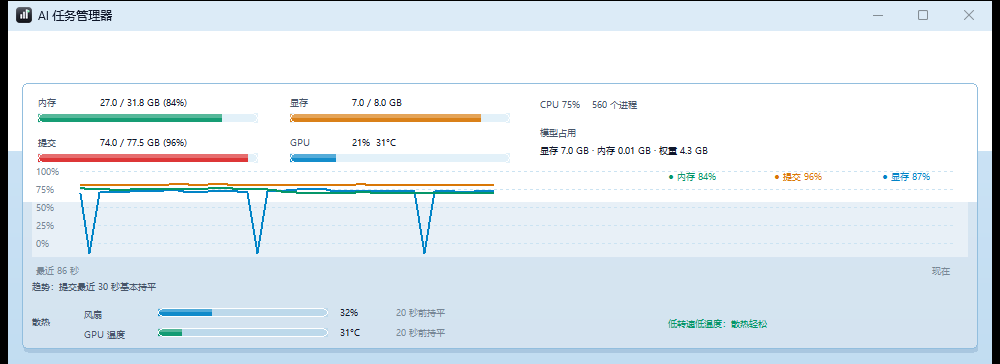
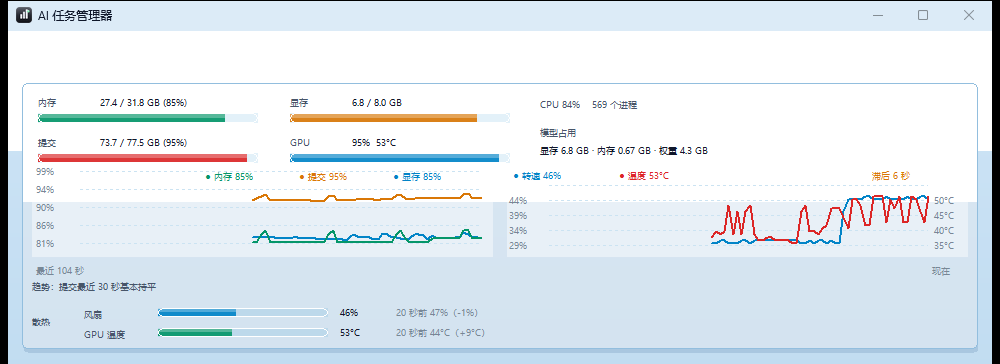
feat: 散热双轴曲线，标注风扇转速相对温度的滞后
- 头部拆成两张图：左=内存/提交/显存，右=转速(%)与温度(°C)双轴
- 用 0~30 秒位移的相关系数估计滞后，直接标在图上
- 曲线改为右对齐，最新点落在「现在」
- 修复 RunHidden 共用临时文件导致 GPU 数据间歇为空（显示「无 N 卡」）

diff --git a/src/main.cpp b/src/main.cpp
@@ -170,7 +170,11 @@ static void RunHidden(const std::wstring& cmd, std::wstring& out) {
     SECURITY_ATTRIBUTES sa{ sizeof(sa), nullptr, TRUE };
     wchar_t tmp[MAX_PATH];
     GetTempPathW(MAX_PATH, tmp);
-    std::wstring path = std::wstring(tmp) + L"aitm_gpu.txt";
+    // 每次调用独立文件：GPU 查询和温度脚本是两个线程，共用一个文件会互相删掉输出
+    static std::atomic<unsigned> seq{ 0 };
+    std::wstring path = std::wstring(tmp) + L"aitm_" +
+                        std::to_wstring(GetCurrentProcessId()) + L"_" +
+                        std::to_wstring(seq.fetch_add(1)) + L".txt";
     DeleteFileW(path.c_str());
 
     HANDLE h = CreateFileW(path.c_str(), GENERIC_WRITE, FILE_SHARE_READ, &sa,
@@ -892,7 +896,7 @@ static void PaintChart(HDC dc, int x, int y, int w, int h) {
             int idx = (g_histHead - g_histCount + i + HIST_MAX * 2) % HIST_MAX;
             const Sample& sm = g_hist[idx];
             double v = which == 0 ? sm.ram : (which == 1 ? sm.com : sm.vram);
-            int px = plotX + (int)(i * step);
+            int px = plotX + plotW - (int)((g_histCount - 1 - i) * step);
             int py = toY(v);
             if (first) { MoveToEx(dc, px, py, nullptr); first = false; }
             else LineTo(dc, px, py);
@@ -907,10 +911,147 @@ static void PaintChart(HDC dc, int x, int y, int w, int h) {
     drawLine(C_AMBER, 1, comNow);
     drawLine(C_GREEN, 0, ramNow);
 
-    int lx = x + w - 300;
+    int lx = x + w - 288;
     TextAt(dc, lx, y + 2, C_GREEN, Fmt(L"● 内存 %.0f%%", ramNow));
-    TextAt(dc, lx + 106, y + 2, C_AMBER, Fmt(L"● 提交 %.0f%%", comNow));
-    TextAt(dc, lx + 214, y + 2, C_BLUE, Fmt(L"● 显存 %.0f%%", gpuNow));
+    TextAt(dc, lx + 94, y + 2, C_AMBER, Fmt(L"● 提交 %.0f%%", comNow));
+    TextAt(dc, lx + 188, y + 2, C_BLUE, Fmt(L"● 显存 %.0f%%", gpuNow));
+}
+
+// 风扇转速相对温度的滞后（秒）：在 0~30 秒里找相关系数最高的位移
+// -1 样本不够；-2 两者无关（温度或转速基本不动）
+static double FanLagSeconds() {
+    if (g_histCount < 24 || g_temps.gpu <= 0) return -1;
+    const int n = std::min(g_histCount, 60);
+    auto fAt = [](int back) { return g_hist[(g_histHead - 1 - back + HIST_MAX * 2) % HIST_MAX].fan; };
+    auto tAt = [](int back) { return g_hist[(g_histHead - 1 - back + HIST_MAX * 2) % HIST_MAX].gpuT; };
+
+    auto corr = [&](int lag, double& r) {
+        int m = n - lag;
+        if (m < 15) return false;
+        double sa = 0, sb = 0, saa = 0, sbb = 0, sab = 0;
+        for (int i = 0; i < m; ++i) {
+            double a = tAt(i + lag), b = fAt(i);       // 更早的温度 对 更晚的转速
+            sa += a; sb += b; saa += a * a; sbb += b * b; sab += a * b;
+        }
+        double va = saa - sa * sa / m, vb = sbb - sb * sb / m;
+        if (va <= 1e-6 || vb <= 1e-6) return false;
+        r = (sab - sa * sb / m) / std::sqrt(va * vb);
+        return true;
+    };
+
+    double bestR = -2;
+    int bestLag = 0;
+    for (int lag = 0; lag <= 15; ++lag) {
+        double r;
+        if (corr(lag, r) && r > bestR) { bestR = r; bestLag = lag; }
+    }
+    if (bestR < 0.35) return -2;
+    return bestLag * 2.0;
+}
+
+// 散热曲线：左轴=风扇转速(%)，右轴=GPU 温度(°C)，同一时间轴才看得出谁先动
+static void PaintCoolChart(HDC dc, int x, int y, int w, int h) {
+    if (g_theme.glass) FillAlpha(dc, x, y, w, h, RGB(255, 255, 255), 110);
+    SetBkMode(dc, TRANSPARENT);
+
+    const int leftW = 42, rightW = 40;
+    const int plotX = x + leftW, plotW = w - leftW - rightW;
+    const int plotY = y + 18, plotH = h - 18 - 6;
+
+    if (g_histCount < 2) {
+        TextAt(dc, x + 70, y + h / 2 - 8, C_DIM, L"采样中…");
+        return;
+    }
+    if (g_temps.gpu <= 0) {
+        TextAt(dc, x + 70, y + h / 2 - 8, C_DIM, L"没有 GPU 温度，画不了散热曲线");
+        return;
+    }
+
+    double fmin = 100, fmax = 0, tmin = 200, tmax = 0;
+    for (int i = 0; i < g_histCount; ++i) {
+        int idx = (g_histHead - g_histCount + i + HIST_MAX * 2) % HIST_MAX;
+        const Sample& sm = g_hist[idx];
+        if (sm.fan <= 0 && sm.gpuT <= 0) continue;
+        fmin = std::min(fmin, sm.fan); fmax = std::max(fmax, sm.fan);
+        tmin = std::min(tmin, sm.gpuT); tmax = std::max(tmax, sm.gpuT);
+    }
+    if (fmax <= 0 && tmax <= 0) {
+        TextAt(dc, x + 70, y + h / 2 - 8, C_DIM, L"还没有读到转速/温度");
+        return;
+    }
+
+    auto pad = [](double& lo, double& hi, double minSpan, double absLo, double absHi) {
+        if (hi < lo) std::swap(hi, lo);
+        if (hi - lo < minSpan) {
+            double mid = (hi + lo) / 2;
+            lo = mid - minSpan / 2; hi = mid + minSpan / 2;
+        }
+        double span = hi - lo;
+        lo = std::max(absLo, lo - span * 0.15);
+        hi = std::min(absHi, hi + span * 0.15);
+        if (hi - lo < 1) hi = lo + 1;
+    };
+    pad(fmin, fmax, 10, 0, 100);
+    pad(tmin, tmax, 6, 0, 120);
+
+    auto yFan = [&](double v) {
+        v = std::max(fmin, std::min(fmax, v));
+        return plotY + plotH - 2 - (int)((v - fmin) / (fmax - fmin) * (plotH - 6));
+    };
+    auto yTemp = [&](double v) {
+        v = std::max(tmin, std::min(tmax, v));
+        return plotY + plotH - 2 - (int)((v - tmin) / (tmax - tmin) * (plotH - 6));
+    };
+
+    HPEN grid = CreatePen(PS_DOT, 1, C_GRID);
+    HPEN oldPen = (HPEN)SelectObject(dc, grid);
+    for (int i = 0; i <= 4; ++i) {
+        int gy = plotY + (plotH - 6) * i / 4;
+        MoveToEx(dc, plotX, gy, nullptr);
+        LineTo(dc, plotX + plotW, gy);
+        double fv = fmax - (fmax - fmin) * i / 4;
+        double tv = tmax - (tmax - tmin) * i / 4;
+        if (i > 0) {
+            TextAt(dc, x + 2, gy - 7, C_DIM, Fmt(L"%.0f%%", fv));
+            TextAt(dc, plotX + plotW + 6, gy - 7, C_DIM, Fmt(L"%.0f°C", tv));
+        }
+    }
+    SelectObject(dc, oldPen);
+    DeleteObject(grid);
+
+    double step = (double)plotW / (HIST_MAX - 1);
+    auto drawLine = [&](COLORREF color, bool isFan, double& lastV) {
+        HPEN pen = CreatePen(PS_SOLID, 2, color);
+        HPEN op = (HPEN)SelectObject(dc, pen);
+        bool first = true;
+        for (int i = 0; i < g_histCount; ++i) {
+            int idx = (g_histHead - g_histCount + i + HIST_MAX * 2) % HIST_MAX;
+            const Sample& sm = g_hist[idx];
+            double v = isFan ? sm.fan : sm.gpuT;
+            if (v <= 0) { first = true; continue; }          // 断点不连线
+            int px = plotX + plotW - (int)((g_histCount - 1 - i) * step);
+            int py = isFan ? yFan(v) : yTemp(v);
+            if (first) { MoveToEx(dc, px, py, nullptr); first = false; }
+            else LineTo(dc, px, py);
+            lastV = v;
+        }
+        SelectObject(dc, op);
+        DeleteObject(pen);
+    };
+
+    double fanNow = 0, tempNow = 0;
+    drawLine(C_BLUE, true, fanNow);
+    drawLine(C_RED, false, tempNow);
+
+    TextAt(dc, x + 6, y + 1, C_BLUE, Fmt(L"● 转速 %.0f%%", fanNow));
+    TextAt(dc, x + 112, y + 1, C_RED, Fmt(L"● 温度 %.0f°C", tempNow));
+
+    double lag = FanLagSeconds();
+    if (lag >= 0)
+        TextAt(dc, x + w - 96, y + 1, lag < 2 ? C_MUTED : C_AMBER,
+               lag < 2 ? L"两者同步" : Fmt(L"滞后 %.0f 秒", lag));
+    else if (lag == -2)
+        TextAt(dc, x + w - 96, y + 1, C_DIM, L"暂无可比");
 }
 
 static void PaintCooling(HDC dc, int x, int y, int w) {
@@ -1012,7 +1153,10 @@ static void PaintHeader(HDC dc, int w, int h) {
     else
         TextAt(dc, 532, 112, C_DIM, Fmt(L"未运行（权重 %.1f GB）", g_weightsGB));
 
-    PaintChart(dc, 24, 136, w - 48, 90);
+    const int gap = 14;
+    const int halfW = (w - 48 - gap) / 2;
+    PaintChart(dc, 24, 136, halfW, 90);
+    PaintCoolChart(dc, 24 + halfW + gap, 136, halfW, 90);
 
     TextAt(dc, 28, 232, C_DIM, Fmt(L"最近 %.0f 秒", g_histCount * 2.0));
     TextAt(dc, w - 60, 232, C_DIM, L"现在");
